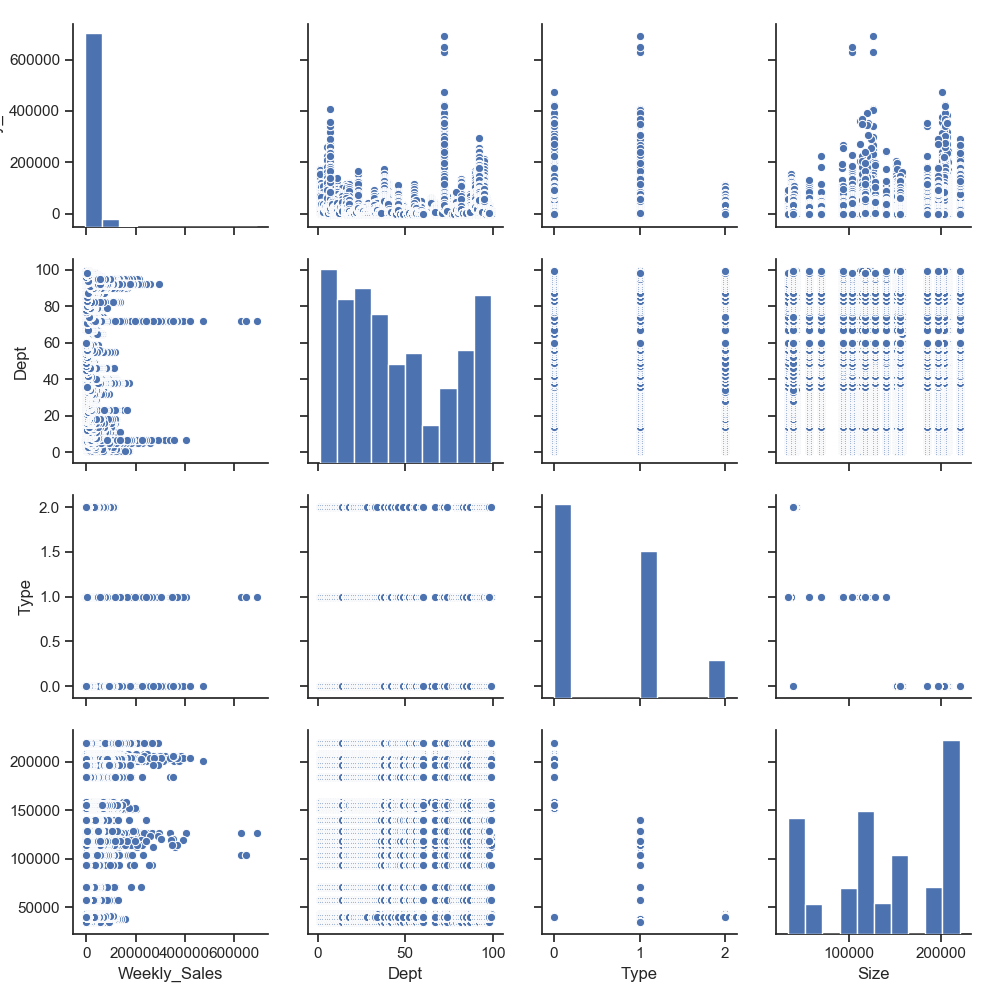
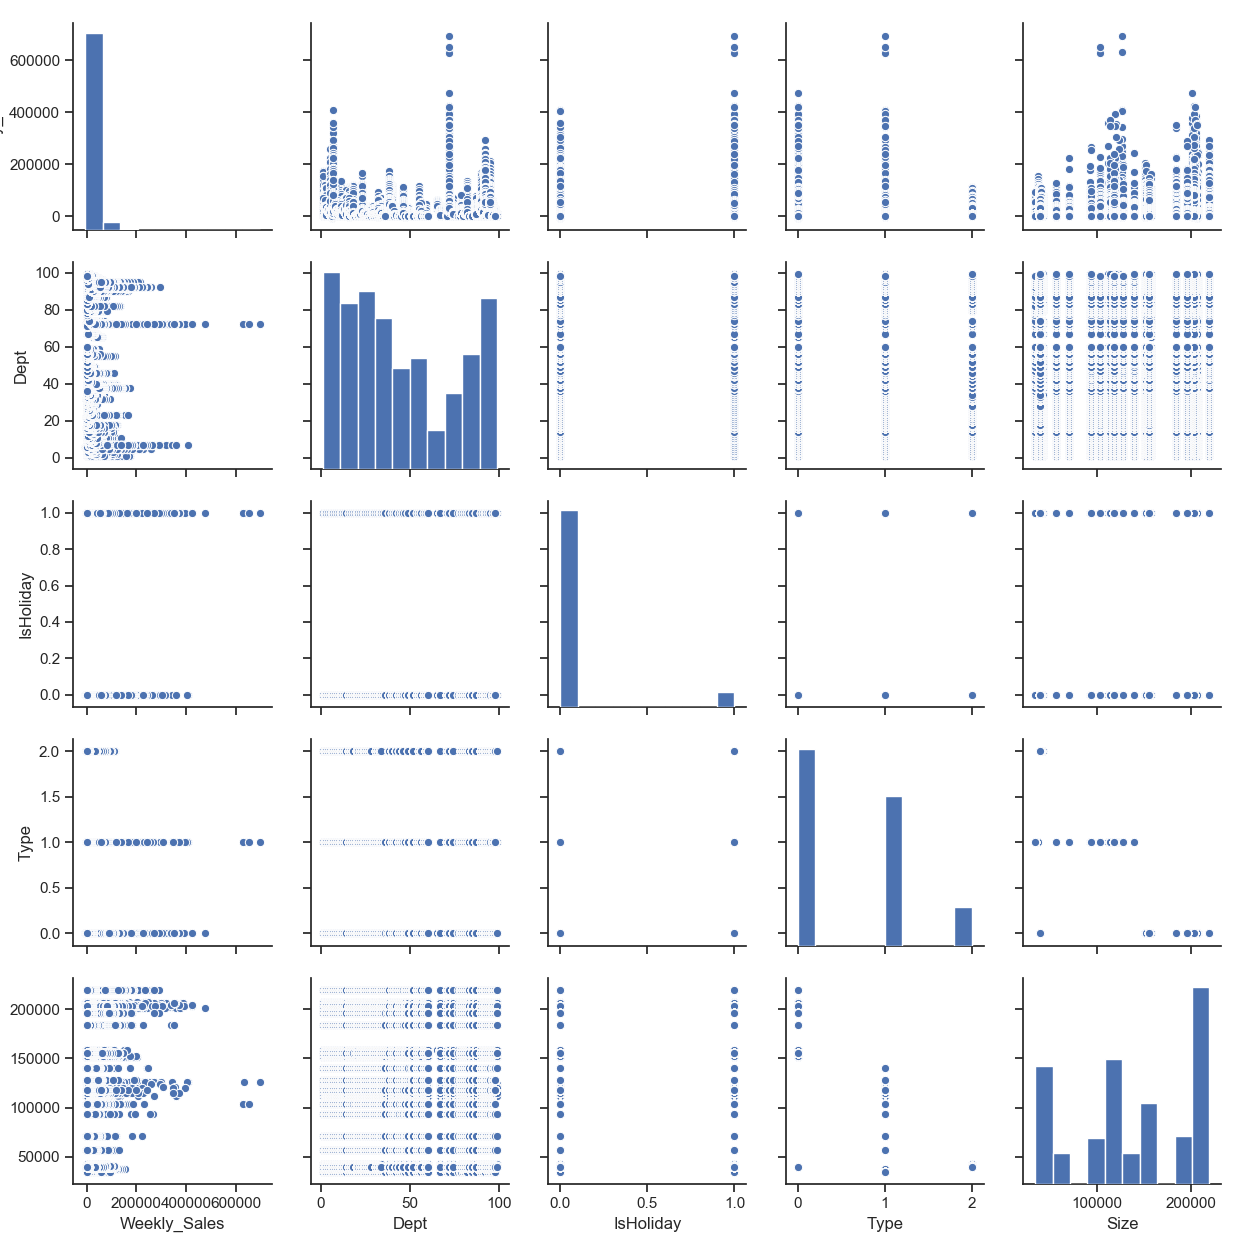
Final code 4.0

diff --git a/Descriptive_Analysis/Pairplots.py b/Descriptive_Analysis/Pairplots.py
@@ -22,7 +22,7 @@ for col in cat_col:
     encoder.fit(dataset[col].values.astype('str'))
     dataset[col] = encoder.transform(dataset[col].values.astype('str'))
 
-dataset1 = dataset.drop(columns=[ 'MarkDown1', 'MarkDown2', 'MarkDown3', 'MarkDown4', 'MarkDown5','Date','Store','CPI','Unemployment' ,'IsHoliday','Temperature', 'Fuel_Price'])
+dataset1 = dataset.drop(columns=[ 'MarkDown1', 'MarkDown2', 'MarkDown3', 'MarkDown4', 'MarkDown5','Date','Store','CPI','Unemployment' ,'Temperature', 'Fuel_Price'])
 
 sns.pairplot(dataset1)
 plt.savefig('../Images/Pair_plots.png')

diff --git a/Machine_Learning/Models.py b/Machine_Learning/Models.py
@@ -218,19 +218,10 @@ X_train_basic.describe()
 
 ### Preprocessing
 
-#### Scaling
-"""
-
-scaler_basic = MinMaxScaler()
+"""#### Create Numpy-Array"""
 
 X_train_basic_np = scaler.fit_transform(np.array(X_train_basic))
 X_valid_basic_np = scaler.transform(np.array(X_valid_basic))
-
-print('Scaled sample:')
-for i in range(5): 
-  print(X_train_basic_np[i])
-
-"""#### Create Numpy-Array"""
 
 Y_train_basic_np = np.array(Y_train_basic)
 Y_valid_basic_np = np.array(Y_valid_basic)
